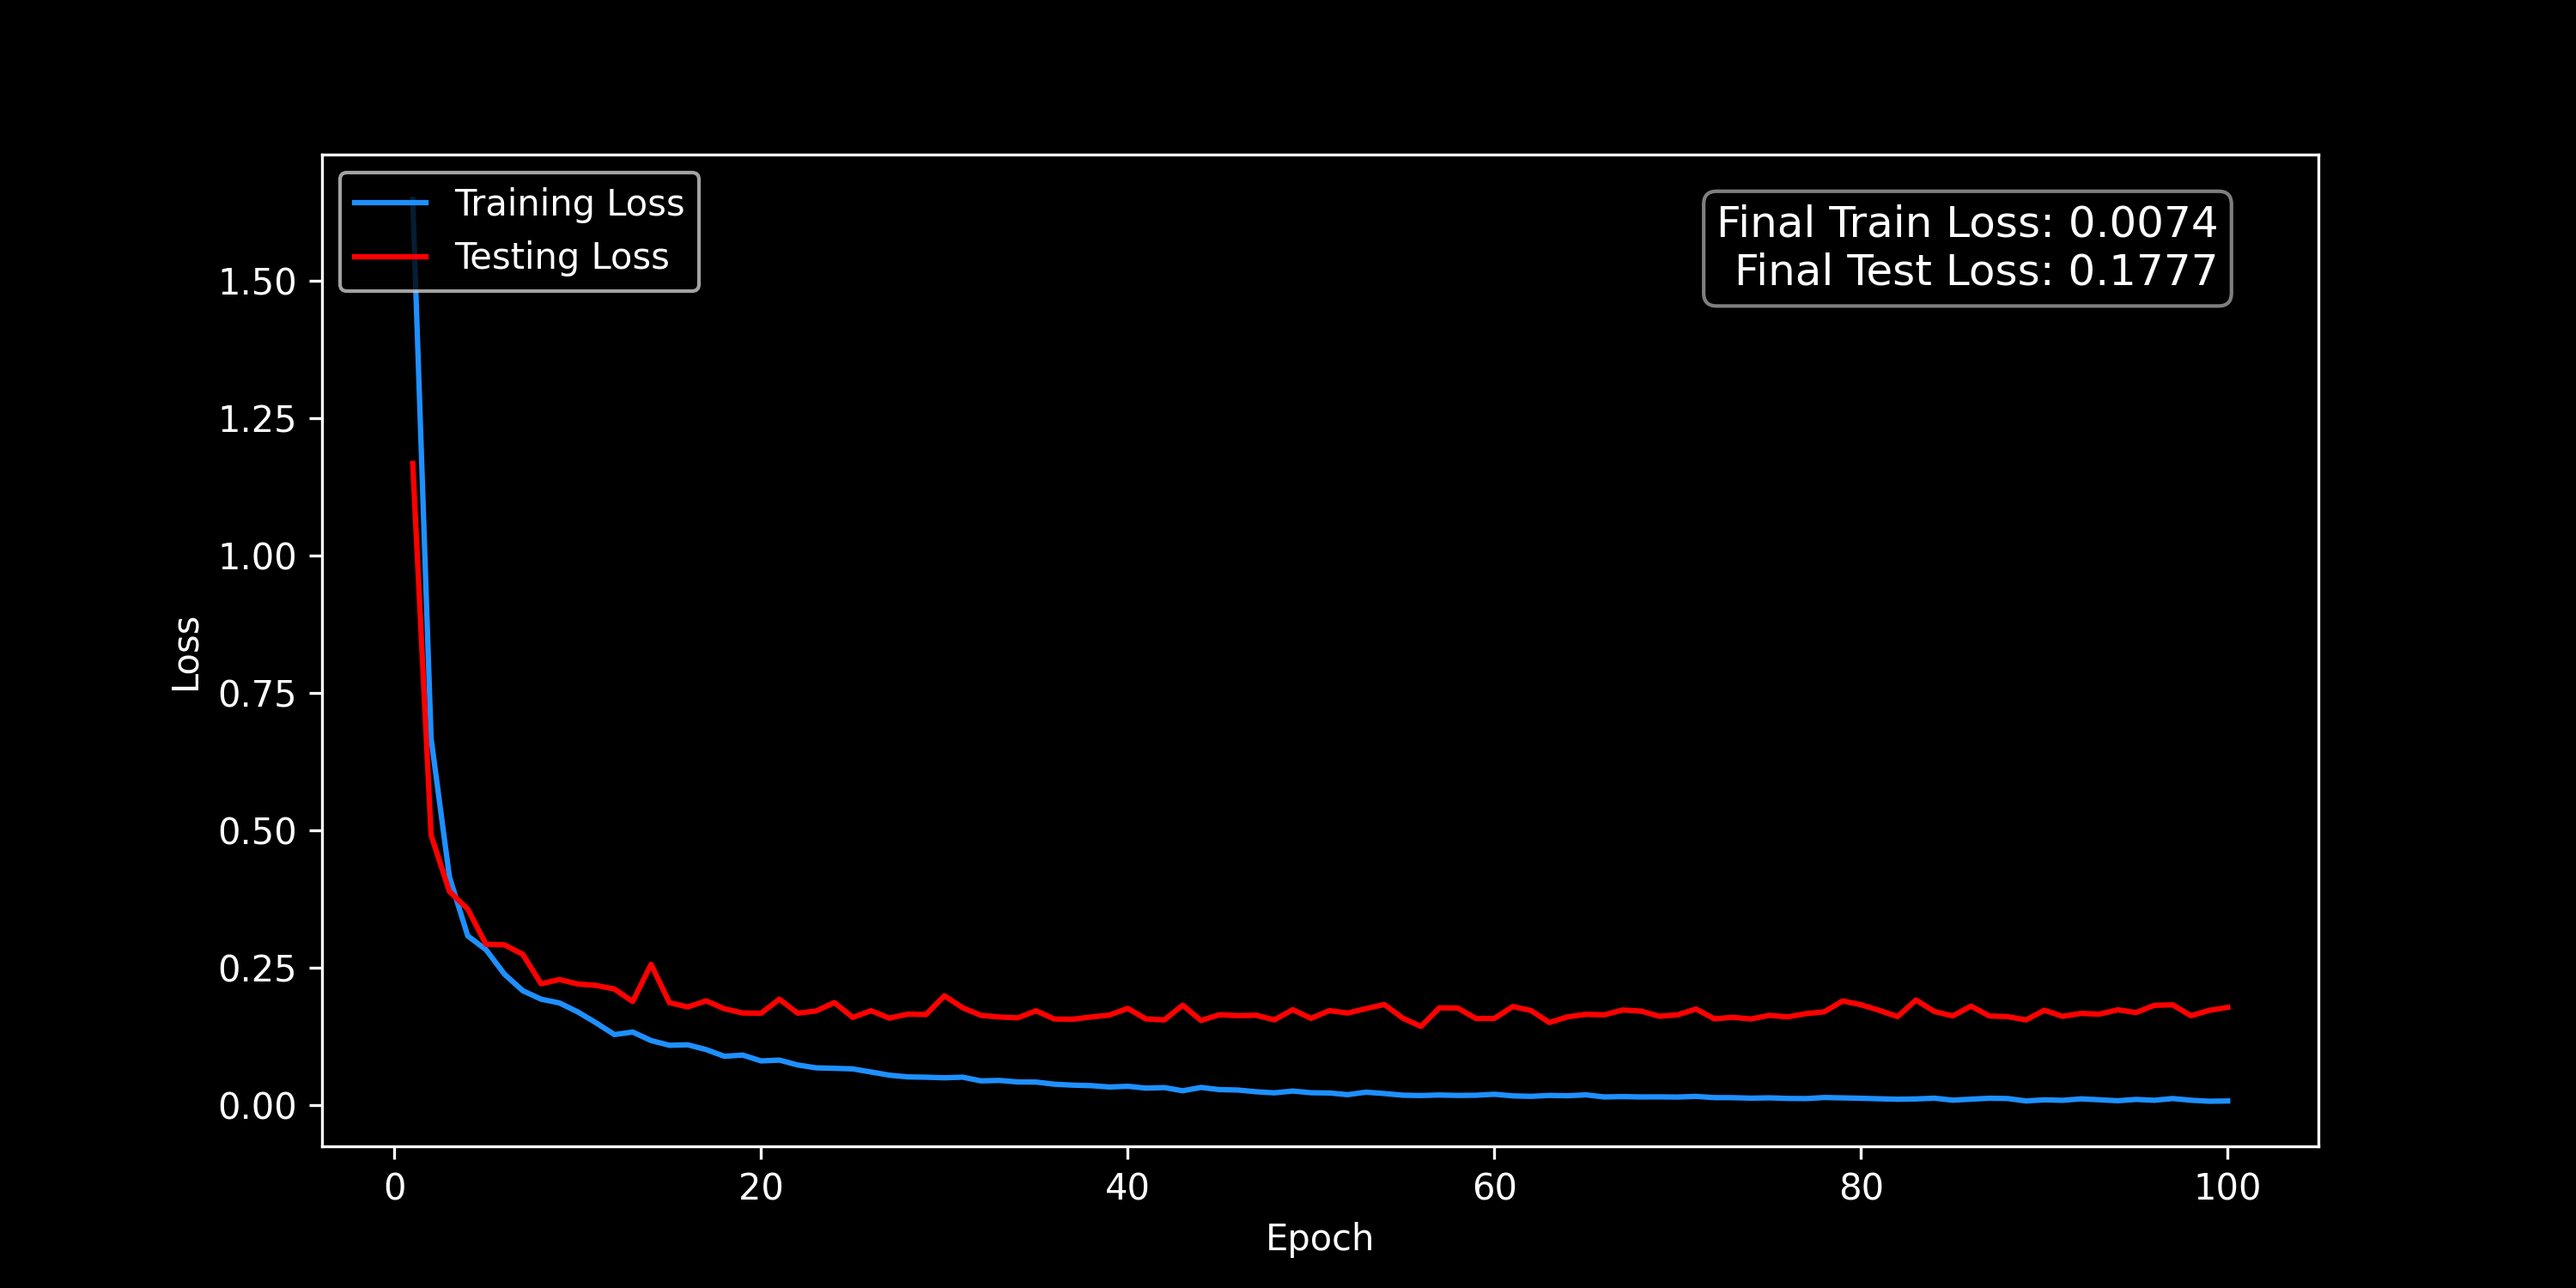
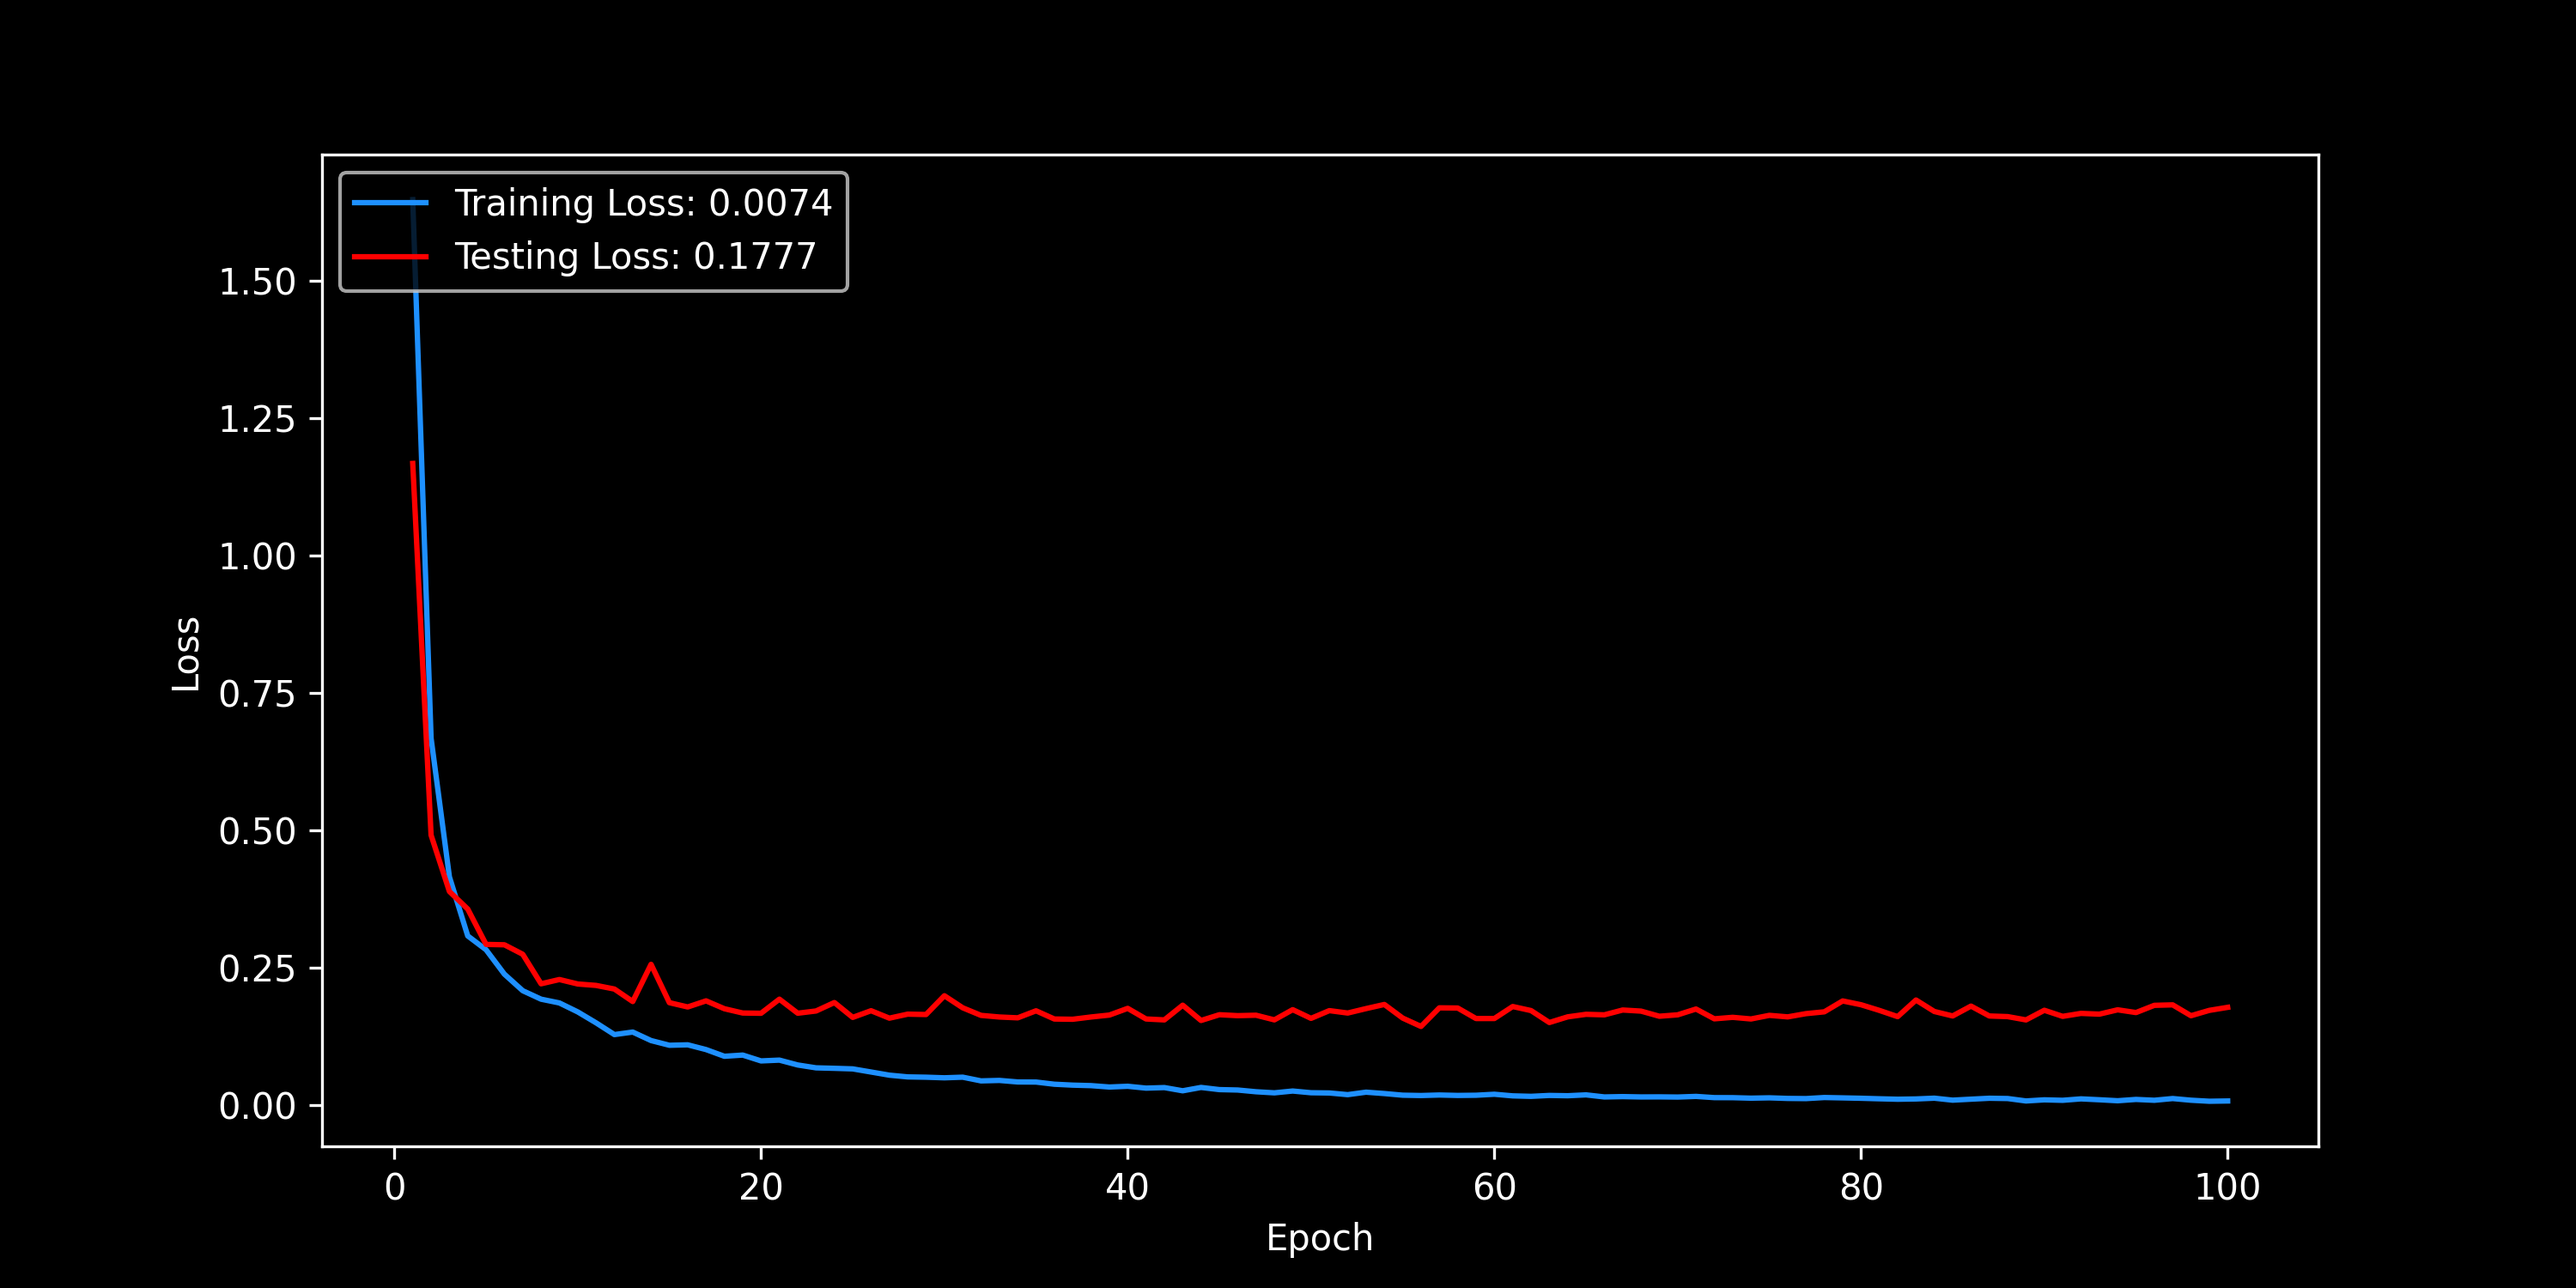
better plots

Changed region(s): [[0.651, 0.1227, 0.868, 0.2453], [0.248, 0.1227, 0.341, 0.2147]]

diff --git a/scripts/mnist-viz.py b/scripts/mnist-viz.py
@@ -7,31 +7,28 @@ def plot_loss(train_loss, test_loss, path):
     epochs = range(1, len(train_loss) + 1)
 
     plt.figure(figsize=(10, 5))
-    plt.plot(epochs, train_loss, label="Training Loss", color="dodgerblue")
-    plt.plot(epochs, test_loss, label="Testing Loss", color="red")
-    plt.xlabel("Epoch")
-    plt.ylabel("Loss")
-
     final_train_loss = train_loss[-1]
     final_test_loss = test_loss[-1]
 
-    textstr = f"Final Train Loss: {final_train_loss:.4f}\nFinal Test Loss: {final_test_loss:.4f}"
-
-    props = dict(boxstyle="round", facecolor="black", edgecolor="white", alpha=0.5)
-    plt.text(
-        0.95,
-        0.95,
-        textstr,
-        transform=plt.gca().transAxes,
-        fontsize=12,
-        verticalalignment="top",
-        horizontalalignment="right",
-        bbox=props,
+    plt.plot(
+        epochs,
+        train_loss,
+        label=f"Training Loss: {final_train_loss:.4f}",
+        color="dodgerblue",
+    )
+    plt.plot(
+        epochs,
+        test_loss,
+        label=f"Testing Loss: {final_test_loss:.4f}",
+        color="red",
     )
 
+    plt.xlabel("Epoch")
+    plt.ylabel("Loss")
     plt.legend(loc="upper left")
     plt.style.use("dark_background")
     plt.savefig(path, dpi=300)
+    plt.show()
 
 
 def plot_training_times(batch_time, sgd_time, mini_batch_time, path):
@@ -67,48 +64,29 @@ def plot_training_times(batch_time, sgd_time, mini_batch_time, path):
     plt.show()
 
 
-def plot_mini_batch_losses(train_losses, test_losses, batch_sizes, path):
+def plot_losses(losses, batch_sizes, path):
     colors = ["dodgerblue", "red", "blueviolet", "aquamarine", "coral"]
-    epochs = range(1, len(next(iter(train_losses.values()))) + 1)
+    epochs = range(1, len(next(iter(losses.values()))) + 1)
 
-    avg_train_losses = {
-        batch_size: np.mean(losses) for batch_size, losses in train_losses.items()
-    }
-    avg_test_losses = {
-        batch_size: np.mean(losses) for batch_size, losses in test_losses.items()
-    }
+    final_losses = {batch_size: loss[-1] for batch_size, loss in losses.items()}
+    best_batch_size = min(final_losses, key=final_losses.get)
 
-    best_train_batch_size = min(avg_train_losses, key=avg_train_losses.get)
-    best_test_batch_size = min(avg_test_losses, key=avg_test_losses.get)
-
-    fig, axes = plt.subplots(1, 2, figsize=(23, 8), sharey=True)
-
+    plt.figure(figsize=(12, 8))
     for i, batch_size in enumerate(batch_sizes):
         color = colors[i % len(colors)]
-        linestyle_train = "-" if batch_size == best_train_batch_size else "--"
-        linestyle_test = "-" if batch_size == best_test_batch_size else "--"
-
-        axes[0].plot(
+        linestyle = "-" if batch_size == best_batch_size else "--"
+        avg_loss = final_losses[batch_size]
+        plt.plot(
             epochs,
-            train_losses[batch_size],
-            label=f"Train Loss (Batch {batch_size})",
+            losses[batch_size],
+            label=f"Batch {batch_size} Loss: {avg_loss:.4f}",
             color=color,
-            linestyle=linestyle_train,
-        )
-        axes[1].plot(
-            epochs,
-            test_losses[batch_size],
-            label=f"Test Loss (Batch {batch_size})",
-            color=color,
-            linestyle=linestyle_test,
+            linestyle=linestyle,
         )
 
-    axes[0].set_xlabel("Epoch")
-    axes[0].set_ylabel("Loss")
-    axes[0].legend(loc="upper right")
-
-    axes[1].set_xlabel("Epoch")
-    axes[1].legend(loc="upper right")
+    plt.xlabel("Epoch")
+    plt.ylabel("Loss")
+    plt.legend(loc="upper left")
 
     plt.style.use("dark_background")
     plt.savefig(path, dpi=300)
@@ -184,12 +162,9 @@ def main():
     }
 
     batch_sizes = [512, 256, 128, 64, 32]
-    plot_mini_batch_losses(
-        train_losses,
-        test_losses,
-        batch_sizes,
-        "../images/mini_batch_loss_comp.png",
-    )
+
+    plot_losses(train_losses, batch_sizes, "../images/mini_batch_train_loss_comp.png")
+    plot_losses(test_losses, batch_sizes, "../images/mini_batch_test_loss_comp.png")
 
 
 if __name__ == "__main__":
